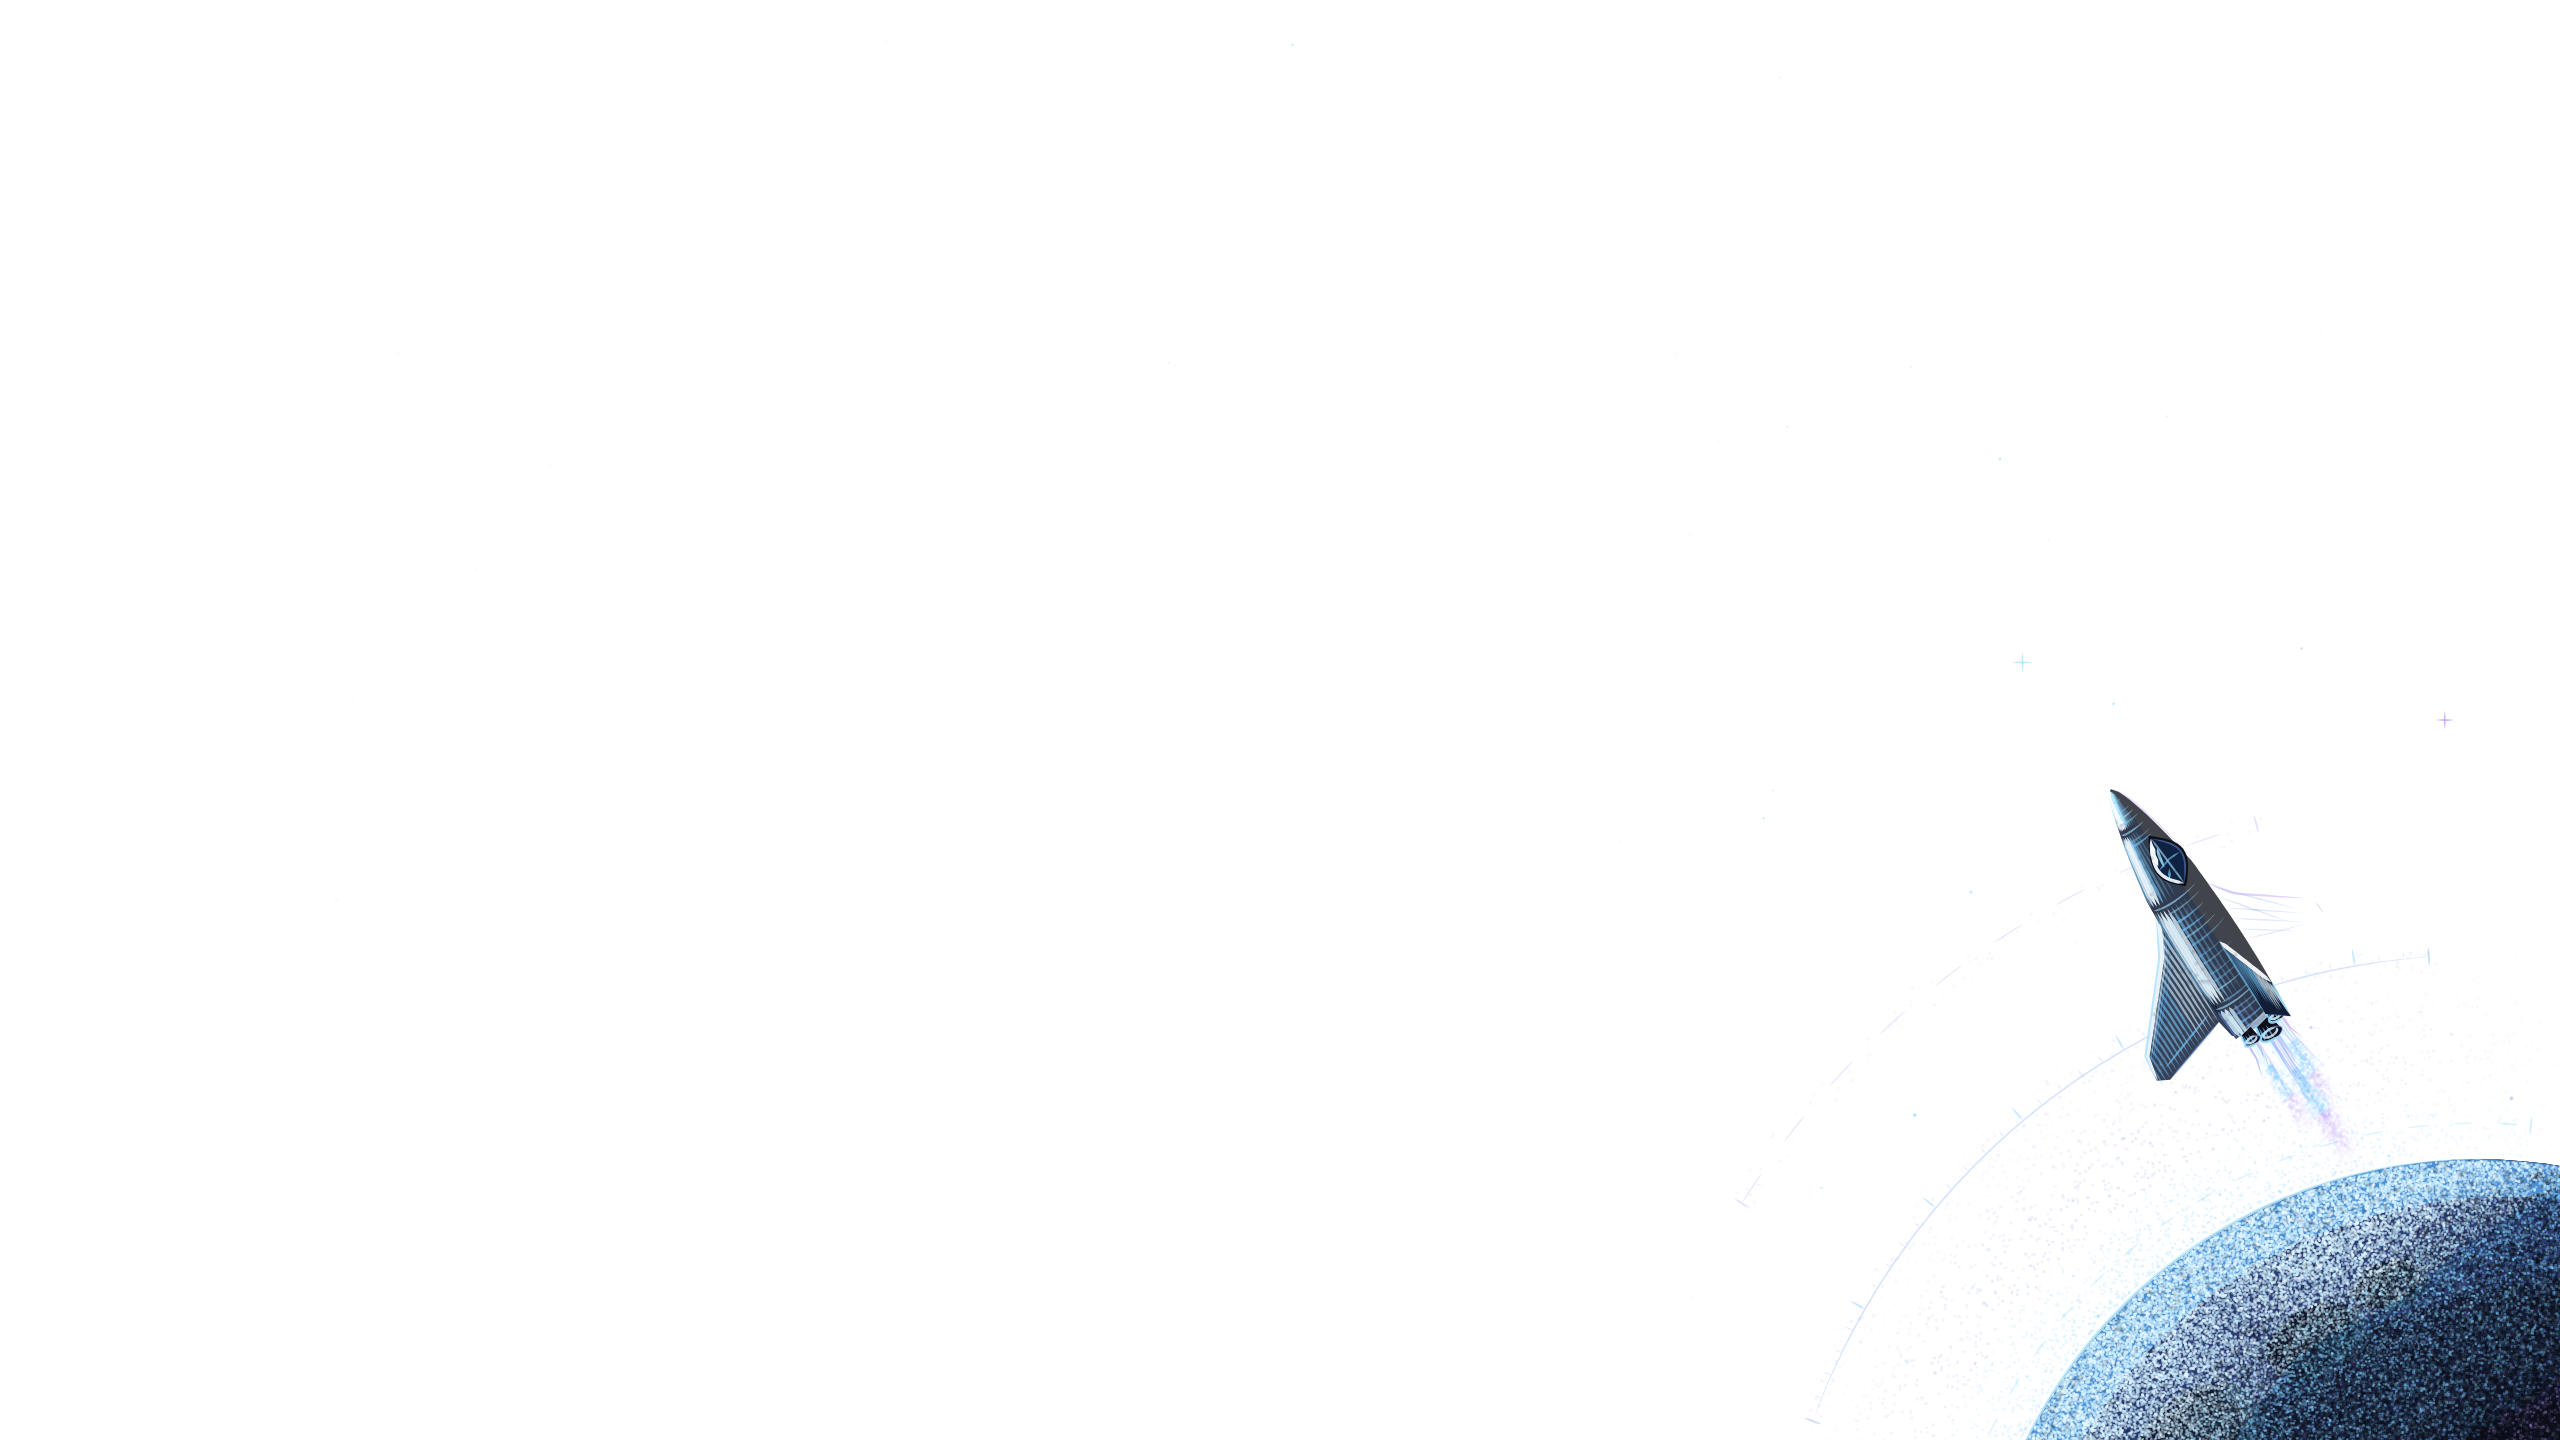
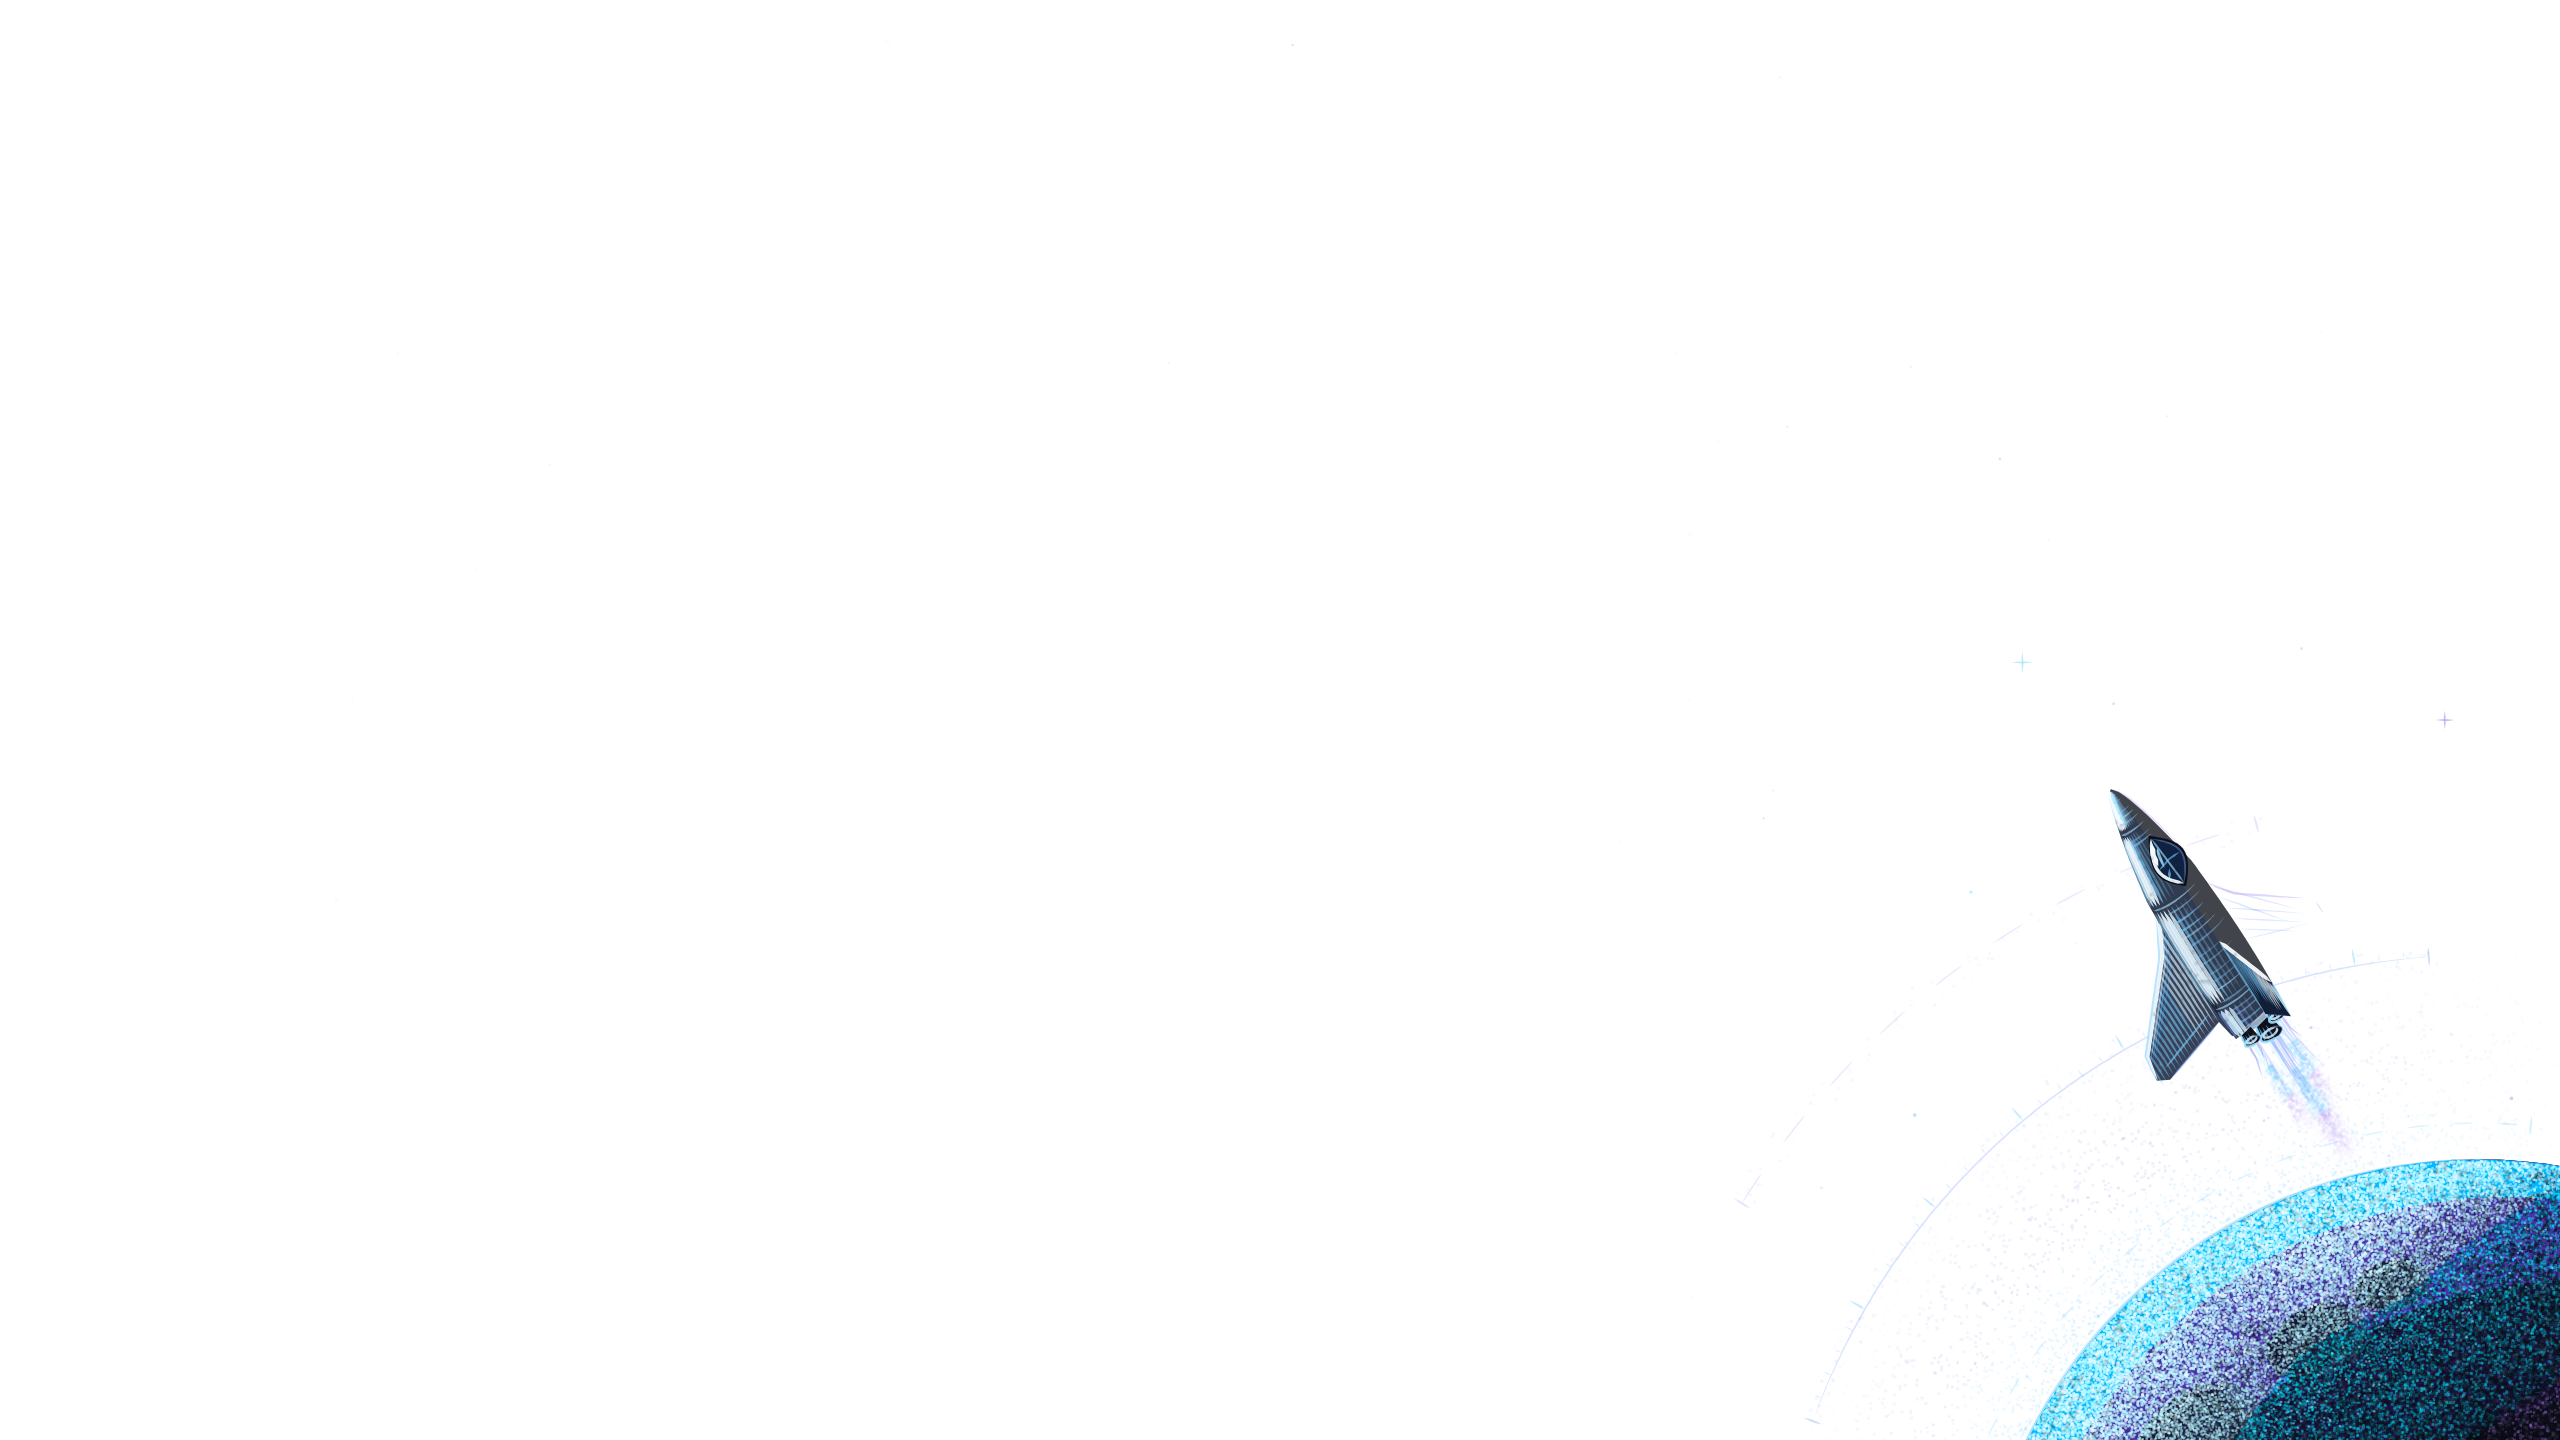
style: upgrade all 5 palettes to Obsidian Vibrant across Zsh, PowerShell, WT, HUD, Warp, and previews

Changed region(s): [[0.7812, 0.7812, 1.0, 1.0]]

diff --git a/windows-terminal/art/nave-anidoodle.html b/windows-terminal/art/nave-anidoodle.html
@@ -271,54 +271,50 @@ function drawGrainyFlatPlanet(ctx, W, H, dpr, planet, rng, noise, transparentBg)
   pctx.fill();
   pctx.clip();
 
-  // ---- A. 16_2026 BORDERLESS FLAT TONAL PLANES (Curved crescent zones) ----
-  // Zone 1: Deep twilight indigo crescent
-  pctx.fillStyle = '#1B2242';
+  // ---- A. 16_2026 BORDERLESS FLAT TONAL PLANES (Obsidian Vibrant: Electric Cyan + Amethyst Violet!) ----
+  pctx.fillStyle = '#1E1542';
   pctx.beginPath();
   pctx.arc(cx - R * 0.22, cy - R * 0.20, R * 0.96, 0, Math.PI * 2);
   pctx.fill();
 
-  // Re-carve deep night shadow crescent on lower-right using shifted dark disc (pure flat graphic cut!)
-  pctx.fillStyle = '#0D1120';
+  pctx.fillStyle = '#090A14';
   pctx.beginPath();
   pctx.arc(cx + R * 0.34, cy + R * 0.30, R * 0.94, 0, Math.PI * 2);
   pctx.fill();
 
-  // Zone 2: Mid-tone slate-violet / cobalt lit crescent
+  // Zone 2: Vivid cobalt-amethyst mid crescent
   pctx.save();
   pctx.beginPath();
   pctx.arc(cx - R * 0.14, cy - R * 0.12, R * 0.98, 0, Math.PI * 2);
   pctx.clip();
-  pctx.fillStyle = '#2B3B70';
+  pctx.fillStyle = '#4B32A8';
   pctx.beginPath();
   pctx.arc(cx - R * 0.34, cy - R * 0.30, R * 0.95, 0, Math.PI * 2);
   pctx.fill();
-  // Carve inner terminator edge
-  pctx.fillStyle = '#1B2242';
+  pctx.fillStyle = '#1E1542';
   pctx.beginPath();
   pctx.arc(cx + R * 0.14, cy + R * 0.13, R * 0.90, 0, Math.PI * 2);
   pctx.fill();
   pctx.restore();
 
-  // Zone 3: Bright sunlit cyan-blue rim crescent (upper-left solar key)
+  // Zone 3: Electric cyan sunlit rim crescent
   pctx.save();
   pctx.beginPath();
   pctx.arc(cx, cy, R, 0, Math.PI * 2);
   pctx.clip();
-  pctx.fillStyle = '#4E8FD1';
+  pctx.fillStyle = '#00B8FF';
   pctx.beginPath();
   pctx.arc(cx - R * 0.04, cy - R * 0.04, R * 1.0, 0, Math.PI * 2);
   pctx.fill();
-  pctx.fillStyle = '#2B3B70';
+  pctx.fillStyle = '#4B32A8';
   pctx.beginPath();
   pctx.arc(cx + R * 0.055, cy + R * 0.050, R * 0.975, 0, Math.PI * 2);
   pctx.fill();
-  // Innermost shadow carve back cleanly
-  pctx.fillStyle = '#1B2242';
+  pctx.fillStyle = '#1E1542';
   pctx.beginPath();
   pctx.arc(cx + R * 0.20, cy + R * 0.18, R * 0.94, 0, Math.PI * 2);
   pctx.fill();
-  pctx.fillStyle = '#0D1120';
+  pctx.fillStyle = '#090A14';
   pctx.beginPath();
   pctx.arc(cx + R * 0.42, cy + R * 0.38, R * 0.94, 0, Math.PI * 2);
   pctx.fill();
@@ -383,9 +379,9 @@ function drawGrainyFlatPlanet(ctx, W, H, dpr, planet, rng, noise, transparentBg)
 
     const L = sphereLight(ux, uy);
     // 1) Bright cyan/ice fine square grain denser toward sunlit upper-left crescent
-    if (L > 0.08 && rng() < Math.pow(L, 1.2) * 0.72) {
-      pctx.fillStyle = L > 0.65 ? '#CBEFFF' : (L > 0.34 ? '#7DCFFF' : '#BB9AF7');
-      pctx.globalAlpha = 0.14 + L * 0.44;
+    if (L > 0.08 && rng() < Math.pow(L, 1.2) * 0.76) {
+      pctx.fillStyle = L > 0.65 ? '#B8FAFF' : (L > 0.34 ? '#00E5FF' : '#C084FC');
+      pctx.globalAlpha = 0.16 + L * 0.48;
       const sz = L > 0.5 ? 1.15 : 1.35;
       pctx.fillRect(px, py, sz, sz);
     }

diff --git a/README.md b/README.md
@@ -47,11 +47,11 @@ Troque a qualquer momento com `nave-theme <nome>` — a escolha fica salva em `~
 
 | Paleta | Comando | Background (OSC 11) | Estilo |
 | :--- | :--- | :---: | :--- |
-| **Cyber** *(padrão)* | `nave-theme cyber` | `#0E111A` | Cyan elétrico, roxo e verde menta inspirado em Tokyo Night |
-| **Emerald** | `nave-theme emerald` | `#0B1510` | Verde neon e teal de alto contraste |
-| **Sunset** | `nave-theme sunset` | `#181016` | Laranja quente, coral e magenta |
-| **Nord** | `nave-theme nord` | `#232934` | Azul ártico, gelo e tons suaves |
-| **Stealth** | `nave-theme stealth` | `#101012` | Monocromático minimalista com foco apenas em alertas e erros |
+| **Cyber** *(padrão)* | `nave-theme cyber` | `#08090F` | Obsidiana profunda com ciano elétrico, violeta e magenta neon |
+| **Emerald** | `nave-theme emerald` | `#070C09` | Obsidiana escura com esmeralda ácido, ciano e verde-lima |
+| **Sunset** | `nave-theme sunset` | `#0C070A` | Obsidiana magma com ouro solar, laranja vivo e rosa carmim |
+| **Nord** | `nave-theme nord` | `#080B12` | Obsidiana aurora com azul elétrico, gelo vibrante e lavanda |
+| **Stealth** | `nave-theme stealth` | `#08080B` | Obsidiana pura com roxo ametista vibrante e branco cristalino |
 
 ---
 
